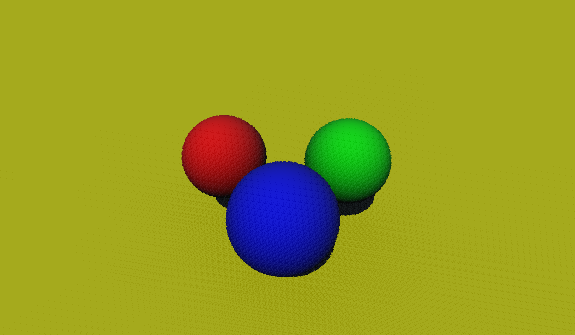
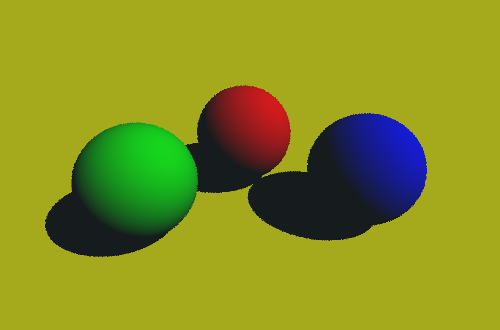
采样器修改

Changed region(s): [[0.09, 0.2424, 0.87, 0.8485]]

diff --git a/src/core/Sampler.py b/src/core/Sampler.py
@@ -4,18 +4,93 @@ import math
 from Vector import *
 
 class Sampler:
-	def __init__(self, numSamples):
-		self.numSamples = numSamples
+	def __init__(self, numSamples, numSets=83):
+		self.num_samples = numSamples
+		self.num_sets = numSets
 		self.samples = []
 		self.hemisphere_samples = []
+		self.disk_samples = []
+		self.sphere_samples = []
 		self.index = 0
-		self.hindex = 0
+		self.jump = 0
+		Sampler.setup_shuffled_indices(self)
+
+	def setup_shuffled_indices(self):
+		indexes = []
+		self.shuffled_indices = []
+		for i in range(0, self.num_samples):
+			indexes.append(i)
+		for p in range(0, self.num_sets):
+			random.shuffle(indexes)
+			for j in range(0, self.num_samples):
+				self.shuffled_indices.append(indexes[j])
+
+	def shuffle_x_coordinates(self):
+		for i in range(0, self.num_sets):
+			for j in range(0, self.num_samples-1):
+				target = int(random.randint(0,self.num_samples-1)+i*self.num_samples)
+				temp = self.samples[j+i*self.num_samples+1].x
+				self.samples[j+i*self.num_samples+1].x = self.samples[target].x
+				self.samples[target].x = temp
+
+	def shuffle_y_coordinates(self):
+		for i in range(0, self.num_sets):
+			for j in range(0, self.num_samples-1):
+				target = int(random.randint(0,self.num_samples-1)+i*self.num_samples)
+				temp = self.samples[j+i*self.num_samples+1].y
+				self.samples[j+i*self.num_samples+1].y = self.samples[target].y
+				self.samples[target].y = temp
 
 	def sample_unit_square(self):
-		pass
+		if int(self.index % self.num_samples) == 0:
+			self.jump = random.randint(0, self.num_sets - 1)*self.num_samples
+		ind = self.samples[self.jump + self.shuffled_indices[self.jump + self.index % self.num_samples]]
+		self.index += 1
+		return ind
+
+	def sample_unit_disk(self):
+		if int(self.index % self.num_samples) == 0:  		
+			self.jump = random.randint(0, self.num_sets - 1)*self.num_samples
+		ind = self.disk_samples[self.jump + self.shuffled_indices[self.jump + self.index % self.num_samples]]
+		self.index += 1
+		return ind
 
 	def sample_hemisphere(self):
-		pass
+		if int(self.index % self.num_samples) == 0:  		
+			self.jump = random.randint(0, self.num_sets - 1)*self.num_samples
+		ind = self.hemisphere_samples[self.jump + self.shuffled_indices[self.jump + self.index % self.num_samples]]
+		self.index += 1
+		return ind
+
+	def sample_sphere(self):
+		if int(self.index % self.num_samples) == 0:  		
+			self.jump = random.randint(0, self.num_sets - 1)*self.num_samples
+		ind = self.sphere_samples[self.jump + self.shuffled_indices[self.jump + self.index % self.num_samples]]
+		self.index += 1
+		return ind
+
+	def map_samples_to_unit_disk(self):
+		for j in range(0, len(self.samples)):
+			sp = Vector2(2.0*self.samples[j].x-1.0, 2.0*self.samples[j].y-1.0)
+			if sp.x > - sp.y:
+				if sp.x > sp.y:
+					r = sp.x
+					phi = sp.y / sp.x
+				else:
+					r = sp.y
+					phi = 2 - sp.x / sp.y
+			else:
+				if sp.x < sp.y:
+					r = -sp.x
+					phi = 4 + sp.y / sp.x
+				else:
+					r = -sp.y
+					if sp.y != 0.0:
+						phi = 6 - sp.x/sp.y
+					else:
+						phi = 0.0
+			phi *= math.pi / 4.0
+			self.disk_samples.append(Vector2(r*math.cos(phi),r*math.sin(phi)))
 
 	def map_samples_to_hemisphere(self, e):
 		for i in range(0, len(self.samples)):
@@ -28,24 +103,31 @@ class Sampler:
 			pw = cos_theta
 			self.hemisphere_samples.append(Vector3(pu,pv,pw))
 
+	def map_samples_to_sphere(self):
+		for i in range(0, len(self.samples)):
+			r1 = self.samples[i].x 
+			r2 = self.samples[i].y
+			z = 1.0 - 2.0 * r1
+			r = math.sqrt(1.0 - z * z)
+			phi = math.pi*2*r2
+			x = r*math.cos(phi)
+			y = r*math.sin(phi)
+			self.sphere_samples.append(Vector3(x,y,z))
+
 class RandomSampler(Sampler):
 	def __init__(self, numSamples):
 		Sampler.__init__(self, numSamples)
-		for i in range(0, 83):
-			sp = Vector2(random.random(), random.random())
-			self.samples.append(sp)
-
-	def sample_unit_square(self):
-		s = self.samples[int(self.index%len(self.samples))]
-		self.index += 1
-		return s
-
-	def sample_hemisphere(self):
-		s = self.hemisphere_samples[int(self.hindex%len(self.hemisphere_samples))]
-		self.hindex += 1
-		return s
+		for i in range(0, self.num_sets):
+			for j in range(0, self.num_samples):
+				self.samples.append(Vector2(random.random(), random.random()))
 
 class JitteredSampler(Sampler):
 	def __init__(self, numSamples):
-		pass
+		Sampler.__init__(self, numSamples)
+		n = int(math.sqrt(numSamples))
+		for i in range(0, self.num_sets):
+			for j in range(0, n):
+				for k in range(0, n):
+					sp = Vector2(k+random.random()/n, j+random.random()/n)
+					self.samples.append(sp)
 

diff --git a/src/core/Camera.py b/src/core/Camera.py
@@ -34,7 +34,7 @@ class Camera:
 				callback(progress)
 			for i in range(0,self.target.width()):
 				r = Color.black
-				for n in range(0,self.sampler.numSamples):
+				for n in range(0,self.sampler.num_samples):
 					sp = self.sampler.sample_unit_square()
 					x = self.pixelWidth*(i-0.5*(self.target.width())+sp.x)
 					y = self.pixelHeight*((self.target.height()-1- j)-0.5*(self.target.height())+sp.y)
@@ -42,7 +42,7 @@ class Camera:
 					ray = self.screen_point_to_ray(Vector2(x,y))
 					r += scene.tracer.trace(ray, scene, 0.000001)
 				if r != None:
-					self.target.set_pixel(i,j,r/self.sampler.numSamples)
+					self.target.set_pixel(i,j,r/self.sampler.num_samples)
 
 
 def create_camera(params):

diff --git a/res/shaders/diffuse.shader.py b/res/shaders/diffuse.shader.py
@@ -4,8 +4,13 @@ def main(hit, scene, reflcol, output):
 	dcol = Color(dif_color[0], dif_color[1], dif_color[2], dif_color[3])
 	difk = dif_k
 
-	col = amk*acol*scene.ambient_occluder.L(hit, scene)
-
+	#amcl = Color.black
+	#for i in range(0, 100):
+	#	amcl += scene.ambient_occluder.L(hit, scene)
+	#amcl = amcl/100
+	#col = amk*acol*amcl
+	#col = amk*acol*scene.ambient_occluder.L(hit, scene)
+	col = amk*acol*scene.ambient.L(hit, scene)
 
 
 	for light in scene.lights:

diff --git a/src/tests/test1.py b/src/tests/test1.py
@@ -1,0 +1,3 @@
+import random
+
+print(random.randint(0,1))
